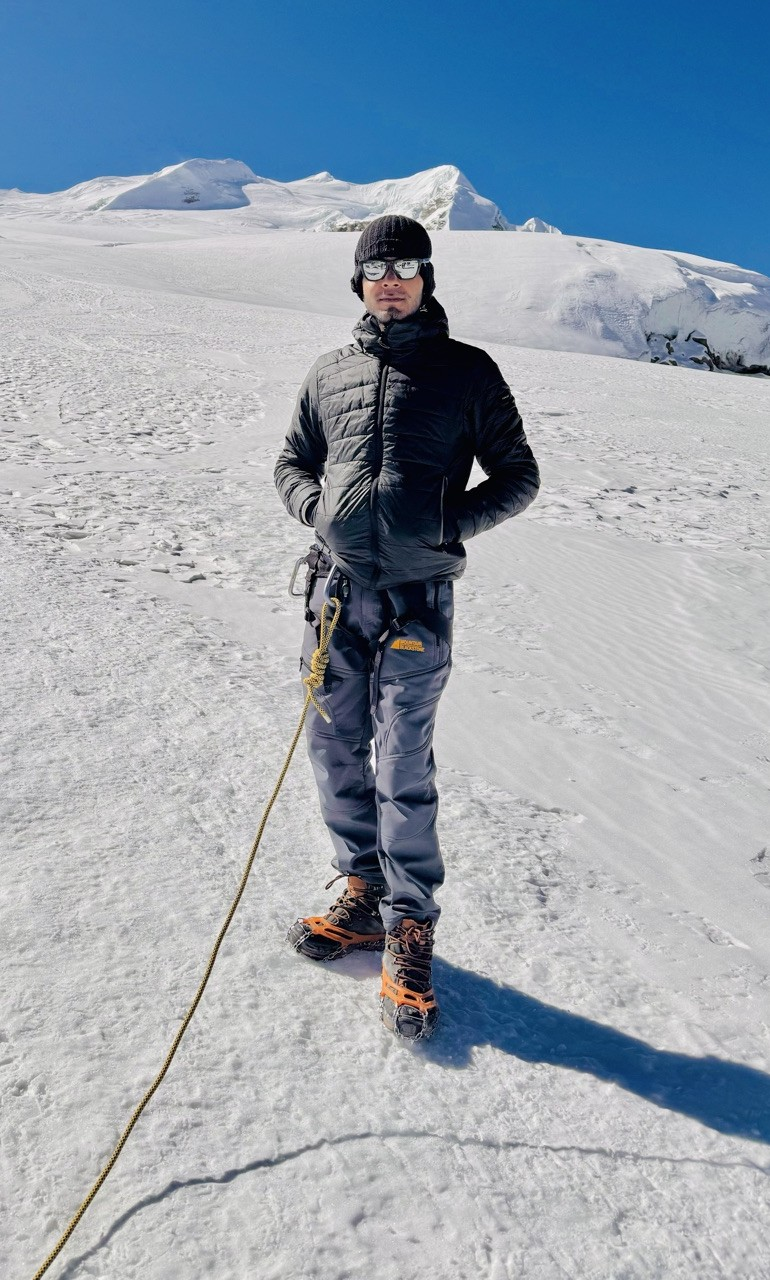
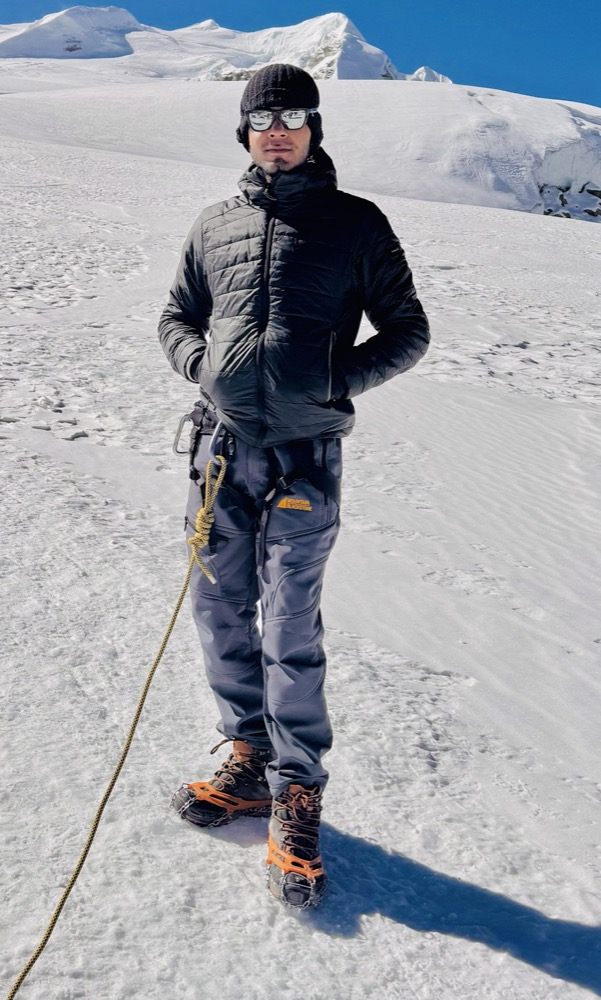
Replace Shekhar's founder photo with higher-res version, adjust Our Respect section image framing/height, increase Featured Treks card title size

diff --git a/src/app/about/page.js b/src/app/about/page.js
@@ -147,12 +147,12 @@ export default function AboutPage() {
                 &ldquo;We don&apos;t just want people to experience the mountains. We want them to respect them.&rdquo;
               </p>
             </div>
-            <div className="relative aspect-[4/3] overflow-hidden rounded-3xl">
+            <div className="relative aspect-[3/2] overflow-hidden rounded-3xl">
               <Image
                 src="/treks/ebc-3.jpg"
                 alt="Prayer flags and a stupa on the trail to Tengboche"
                 fill
-                className="object-cover"
+                className="object-cover object-top"
                 sizes="(min-width: 1024px) 360px, 90vw"
               />
             </div>

diff --git a/src/components/FeaturedTreks.js b/src/components/FeaturedTreks.js
@@ -26,7 +26,7 @@ function TrekCard({ trek, i, className, sizes }) {
         {trek.duration} Days · {trek.difficulty}
       </span>
       <div className="absolute inset-x-0 bottom-0 p-6">
-        <h3 className="truncate font-serif text-base font-semibold text-white">
+        <h3 className="truncate font-serif text-lg font-semibold text-white sm:text-xl">
           {trek.name}
         </h3>
         <div className="mt-2 flex flex-col">
